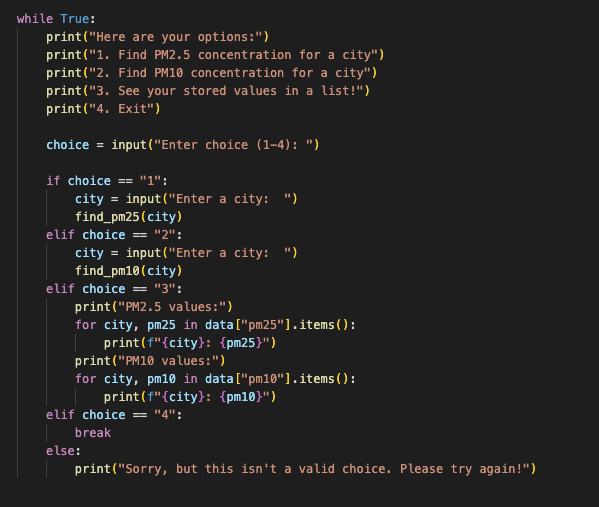
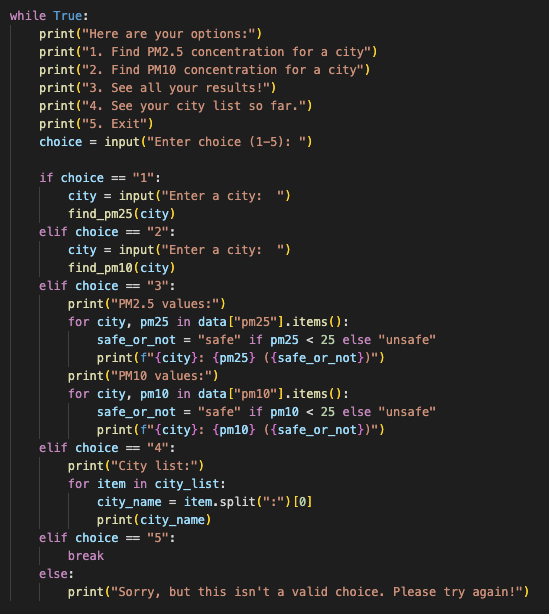
finalizing cpt

diff --git a/_notebooks/weather.py b/_notebooks/weather.py
@@ -56,8 +56,8 @@ while True:
     print("Here are your options:")
     print("1. Find PM2.5 concentration for a city")
     print("2. Find PM10 concentration for a city")
-    print("3. See all your results!")
-    print("4. See your city list so far.")
+    print("3. See all your results so far")
+    print("4. See just your city list so far")
     print("5. Exit")
     choice = input("Enter choice (1-5): ")
 

diff --git a/_posts/2023-04-14-new-cpt.md b/_posts/2023-04-14-new-cpt.md
@@ -24,7 +24,7 @@ This program uses the requests module to connect to a public API that provides i
 
 ### 3.a.iii.
 
-This program is designed to test a user's reaction time by presenting them with circular targets on the screen. The user must click on each target, after which the target will be resized and relocated to a new random position in the game container. The objective is to score as many points as possible within a 15-second time limit. The user must pay 15 tokens to play, and their score will determine the number of tokens they earn. The program displays real-time updates of the user's token balance and overall game performance. This project demonstrates the use of a currency system and how it can be integrated into a game-like application.
+This program is designed to retrieve air quality data for cities around the world. It does so by making requests to an API and storing the data in a dictionary called "data". The program provides users with a menu of options to select from, including the ability to retrieve PM2.5 or PM10 concentrations for a specific city, view all results, or see a list of cities that have been searched. The goal of the program is to help users make informed decisions about air quality and take appropriate precautions if necessary.
 
 
 ## 3b.
@@ -39,16 +39,15 @@ This program is designed to test a user's reaction time by presenting them with 
 
 ### 3.b.iii.
 
-The name of the variable representing the collection type is "pm25", which is a dictionary consisting of the stored concentration values of pm25 in the inputted cities by the user. 
+The variable representing the list used in this program is city_list. This list is used to store the names of cities for which PM2.5 or PM10 concentration data has been collected.
 
 ### 3.b.iv.
 
-The second image represents the usage of the code, and as mentioned previously, the collection type "pm25" serves as a dictionary to not only output the respective concentration value of the city, but also store the user's inputs if the option 3 is selected from the menu. Essentially, it serves as a collection type, specifically a dictionary. It is being used to store the PM2.5 concentrations for different cities. Each key in the pm25 dictionary represents a city and its value is the corresponding PM2.5 concentration.
+The second image represents the usage of the code, and is executed when the user chooses option 4 in the main while loop. It loops over the city_list list and prints out each city name after stripping off any concentration data that may have been accidentally added to the name. This list purely represented the names of the cities which the user has already inputted into the machine so far, so that they may keep track of the cities whose air qualities they have already judged. 
 
 ### 3.b.v.
 
-The data dictionary is used to store the collected PM2.5 concentration data with the key pm25 pointing to a sub-dictionary that stores data for different cities. Storing the PM2.5 concentration data in a collection type allows the program to easily access and manipulate the data. By using a dictionary to store the data, the program can quickly look up PM2.5 concentration data for a specific city by accessing the corresponding key in the data dictionary. The importance of pm25 as a collection type is that it allows the program to store and retrieve PM2.5 concentration data for various cities over multiple runs of the program. By storing the data in a collection type, the program can access the previously collected data when the user requests PM2.5 concentration data for a city that has already been searched. This avoids making unnecessary API requests and saves time and resources.
-
+The named list in the code, represented by the variable city_list, is used to manage the complexity of the program by keeping track of the cities that the user has searched for. Without this list, it would be difficult to keep track of the cities that have already been searched and to display them when the user chooses to view the list. If the program did not use this list, the user would have to remember the cities they have searched for or write them down manually, which would be inconvenient and could lead to errors. Additionally, if the program did not use a list, it would be more difficult to scale the program to include additional functionality or data sources because the city search functionality would be tightly coupled to the code that displays the search history.
 ## 3.c.
 
 ### 3.c.i.
@@ -61,12 +60,11 @@ The data dictionary is used to store the collected PM2.5 concentration data with
 
 ### 3.c.iii.
 
-The procedures here are "find_pm25" and "find_pm10". As the names imply, these functions are able to return a numerical integer that represents the pm25 or pm10 concentration, respectively, of any given city in the United States. It is called in the while loop, as it is required for achieving the objective of the menu of options. If either choice is selected, the terminal will prompt the user to enter a city name, and will then return the respective concentrations. 
+The procedure here is "find_pm25" and in this procedure, city is a parameter that determines which city's PM2.5 data is retrieved and displayed. If city were not passed as a parameter, the procedure would not know which city's data to retrieve and would not be able to display the correct information. This functionality allows the user to input a city and obtain information on its PM2.5 concentration level. The stored concentration data can be later used to generate a report of all the cities and their respective PM2.5 concentration levels. The city_list allows the user to keep track of the cities they have searched for, which can be useful for future reference. Essentially, these procedures contribute to the program's functionality by providing an interactive way to obtain and store air quality data for cities.
 
 ### 3.c.iv.
 
-Here, sequencing, selection, and iteration are used to provide a user-friendly interface for finding air quality information for different cities. The code uses sequencing to display a menu of options for the user to choose from. The menu includes the following options: finding the PM2.5 concentration for a city, finding the PM10 concentration for a city, viewing the stored values for PM2.5 and PM10 concentrations for cities, and exiting the program. Selection is used to determine which action the user wants to perform based on the choice they make. If the user chooses option 1, they will be prompted to enter a city, and the function find_pm25 will be called to retrieve and display the PM2.5 concentration for that city. If the user chooses option 2, they will be prompted to enter a city, and the function find_pm10 will be called to retrieve and display the PM10 concentration for that city. If the user chooses option 3, the stored PM2.5 and PM10 values for each city will be displayed using iteration. Finally, if the user chooses option 4, the program will exit.
-
+The while loop in the given code utilizes sequencing, selection, and iteration to create a simple interactive program. The loop starts by displaying the user's options, where the user can input a choice from 1 to 5. The selection process then checks the user's input, and if the input is valid, the program executes the corresponding block of code. This process of selection and sequencing is repeated until the user chooses to exit, which occurs when they input the number 5. The iteration occurs through the loop's repeated execution, as it iterates through the user's input and corresponding actions. Within each of the selection blocks, additional sequencing occurs through the execution of multiple lines of code. For example, within the "Find PM2.5 concentration for a city" block, the sequence of events is as follows: the user inputs a city name, the code calls the "find_pm25" function, the function makes an API call and processes the data, and then the program prints out the resulting concentration level and safety information.
 
 ## 3.d
 
@@ -74,12 +72,11 @@ Here, sequencing, selection, and iteration are used to provide a user-friendly i
 
 #### Call One
 
-The first call is in the function to find and return the PM2.5 concentration for the city. If the function is successful, it should print a message indicating the PM2.5 concentration forthe city and whether it is a safe or unsafe level of air quality. If the function is not successful in finding data for the city, it should print a message indicating that there is no PM2.5 data available for the city.
+The first call is in the function "find_pm25" which will find and return the PM2.5 concentration for the city. This will execute the segment of code inside the find_pm25 procedure where a GET request is sent to the API to retrieve the PM2.5 concentration data for a city. If the data is available, the concentration level will be printed along with a message indicating whether the air quality is safe or not. The concentration value will then be added to the data dictionary and the city will be added to the city_list list.
 
 #### Call Two
 
-The second call is in the function to find and return the PM10 concentration for the city. If the function is successful, it should print a message indicating the PM10 concentration for the city and whether it is a safe or unsafe level of air quality. If the function is not successful in finding data for the city, it should print a message indicating that there is no PM10 data available for the city.
-
+The second call is in the function "find_pm10" which will find and return the PM10 concentration for the city. This will execute the segment of code inside the find_pm10 procedure where a GET request is sent to the API to retrieve the PM10 concentration data for city. If the data is available, the concentration level will be printed along with a message indicating whether the air quality is safe or not. The concentration value will then be added to the data dictionary and the city will be added to the city_list list.
 ### 3.d.ii.
 
 #### Condition(s) tested by Call One
@@ -88,8 +85,7 @@ Here, the condition being tested is whether there is any data available for the 
 
 #### Condition(s) tested by Call Two
 
-Call two is testing the condition pm10_concentration["concentration"] < 25 in the find_pm10 function. If the condition is true, the program will execute the code block that prints "This is a safe level of air quality. Enjoy!" and stores the PM10 concentration value in the data dictionary under the key pm10. If the condition is false, the program will execute the code block that prints "This is unsafe air quality. Be cautious!" and stores the PM10 concentration value in the data dictionary under the key pm10.
-
+The second call to the find_pm10 procedure is testing whether the concentration of PM10 in a given city is less than 25. If the concentration is less than 25, the code will print "This is a safe level of air quality. Enjoy!". Otherwise, it will print "This is unsafe air quality. Be cautious!".
 
 ### 3.d.iii.
 
